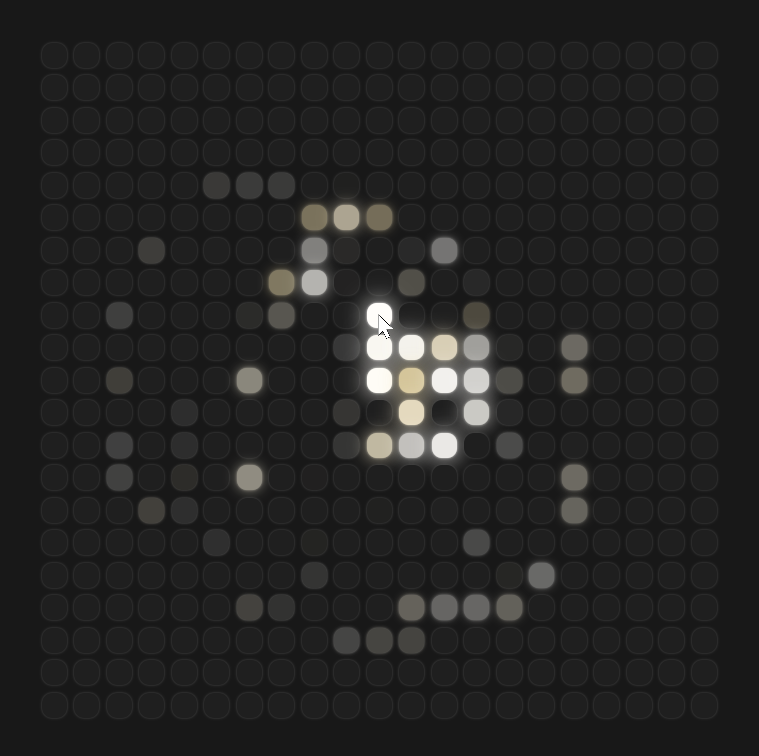
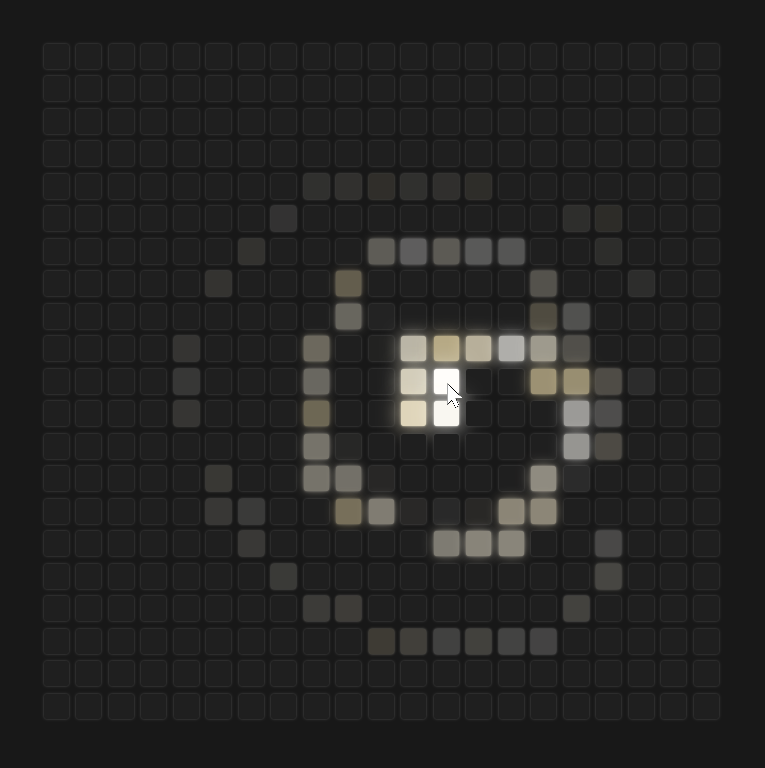
tweaks

diff --git a/index.js b/index.js
@@ -1,14 +1,14 @@
 const box = document.getElementById('box');
 
 const colours = ['#fff3d4', '#f2e0ae', '#f0e9d5', '#fff7e0', '#fffdf7', '#fffdfa'];
-const circles = 441
+const squares = 441
 
-for(let i = 0; i < circles; i++) {
-  const circle = document.createElement('div')
-  circle.classList.add('circle')
-  circle.addEventListener('mouseover', () =>  setColour(circle))
-  circle.addEventListener('mouseout', () =>  removeColour(circle))
-  box.appendChild(circle)
+for(let i = 0; i < squares; i++) {
+  const square = document.createElement('div')
+  square.classList.add('square')
+  square.addEventListener('mouseover', () =>  setColour(square))
+  square.addEventListener('mouseout', () =>  removeColour(square))
+  box.appendChild(square)
 }
 
 function setColour(ele) {
@@ -19,7 +19,7 @@ function setColour(ele) {
 
 function removeColour(ele) {
     ele.style.backgroundColor = '#1f1f1f'
-    ele.style.boxShadow = '0 0 2px rgb(82, 82, 82)'
+    ele.style.boxShadow = '0 0 2px #525252'
 }
 
 function getRandomColour() {

diff --git a/style.css b/style.css
@@ -23,18 +23,18 @@ body {
     overflow: hidden;
 }
 
-.circle {
+.square {
     background-color: #1f1f1f;
     color: #757575;
     box-shadow: 0 0 2px rgb(82, 82, 82);
     height: 20px;
     width: 20px;
-    border-radius: 40%;
+    border-radius: 10%;
     margin: 3px;
-    transition: 5s ease;
+    transition: 7s ease;
 }
 
-.circle:hover {
+.square:hover {
     transition-duration: 0s;
 }
 

diff --git a/index.html b/index.html
@@ -2,8 +2,6 @@
 <html>
     <head>
         <meta charset="UTF-8">
-        <!-- <meta http-equiv="X-UA-Compatible" content="IE=edge"> -->
-        <!-- <meta name="viewport" content="width=device-width, initial-scale=1.0"> -->
         <link rel="stylesheet" href="style.css">
         <title>Shiny</title>
     </head>
